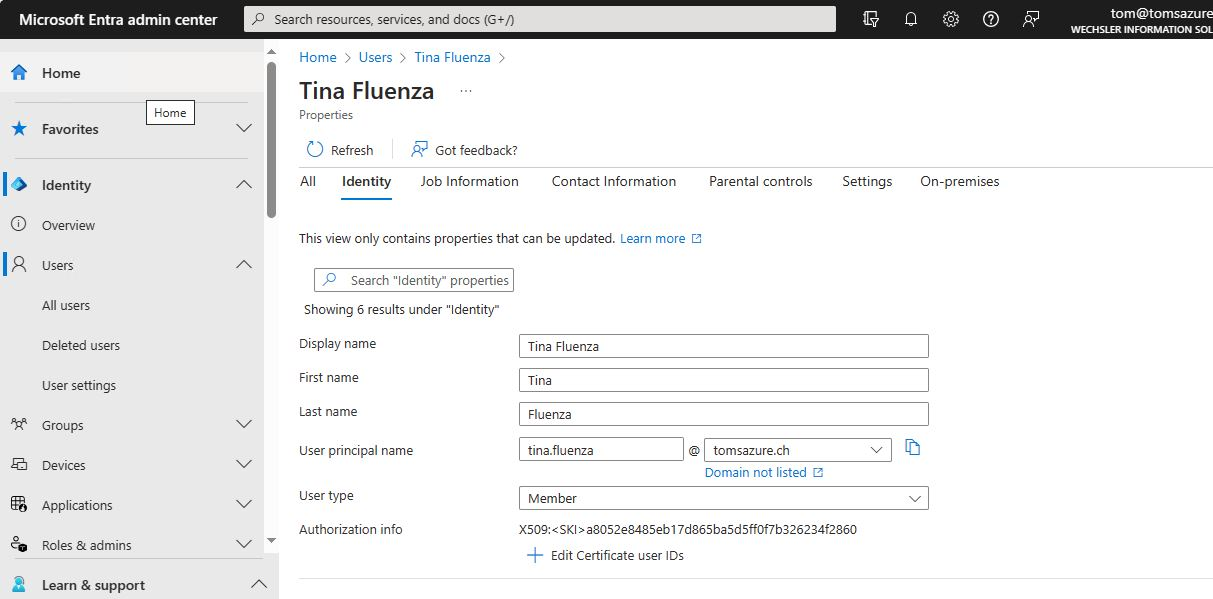
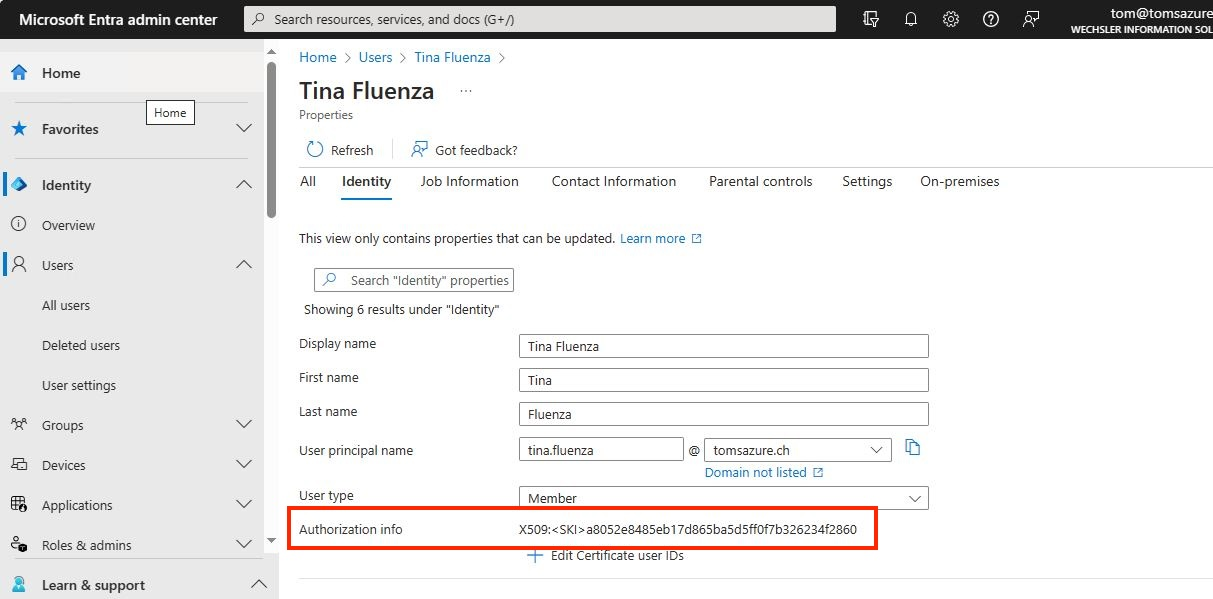
new files

Changed region(s): [[0.2135, 0.8414, 0.7321, 0.9316]]

diff --git a/Entra_certificate_binding/Entra_ID_certificate_binding.md b/Entra_certificate_binding/Entra_ID_certificate_binding.md
@@ -18,29 +18,29 @@ Microsoft Entra ID, formerly known as Azure Active Directory, is a cloud identit
 
 First we look at the certificate template on the certificate server (sorry some print screens are in German). Here we see the details of the Object Identifiers (OID).
 
-<img src="/Entra_ID_Certificate_binding/Images/OID.JPG" alt="OID">
+<img src="/Entra_certificate_binding/Images/OID.JPG" alt="OID">
 
 **Add a new rule:**  
 
 Configure an additional rule in the Entra ID Admin Center and use the same Object Identifiers (OID) value here as in the certificate template.
 
-<img src="/Entra_ID_Certificate_binding/Images/OID_Entra.JPG" alt="Rule">
+<img src="/Entra_certificate_binding/Images/OID_Entra.JPG" alt="Rule">
 
 **Subject Key Identifier (SKID):**  
 
 The certificate was issued on the user's system. We obtain the subject key identifier (SKID) from this certificate. We need this value in the Entra ID Admin Center to assign it to a person. The same person for whom the certificate was issued on the system (in my case it is Tina Fluenza).
 
-<img src="/Entra_ID_Certificate_binding/Images/SKI_local_user.JPG" alt="SKID">
+<img src="/Entra_certificate_binding/Images/SKI_local_user.JPG" alt="SKID">
 
 **Authorization info:**  
 
 In the Entra ID Admin Center, we now set the value of the Subject Key Identifier (SKID) for the user in the properties.
 
-<img src="/Entra_ID_Certificate_binding/Images/SKI_Entra_ID.JPG" alt="Authorization info">
+<img src="/Entra_certificate_binding/Images/SKI_Entra_ID.JPG" alt="Authorization info">
 
-**The exact info from Fiddler:**  
+> Note: Please pay attention to the syntax (X509:<SKI>).
 
-<img src="/Entra_ID_CAE/Images/cae_9.png" alt="Infos from Fiddler">
+
 
 ---
 ## *HAPPY BINDING!*
